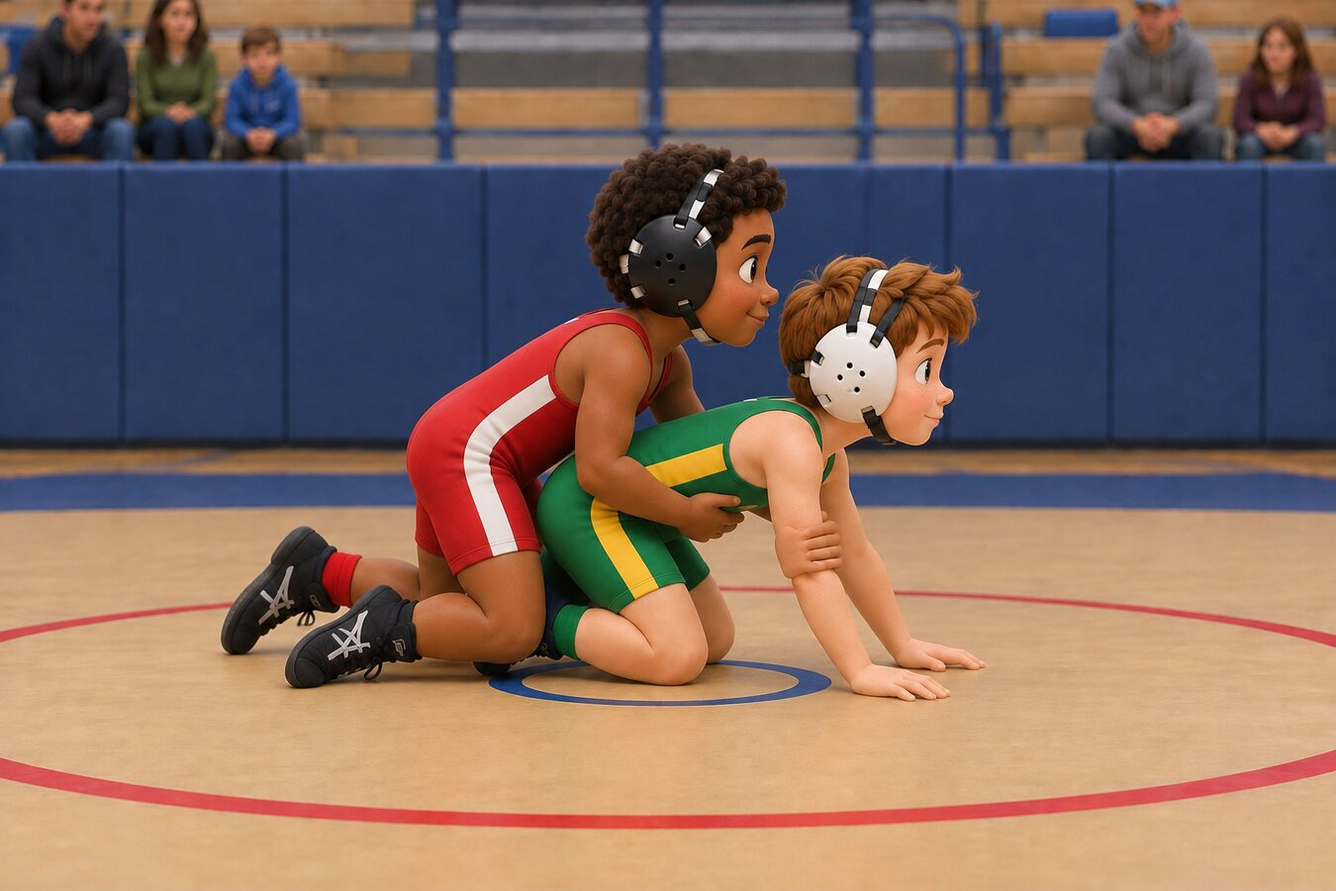
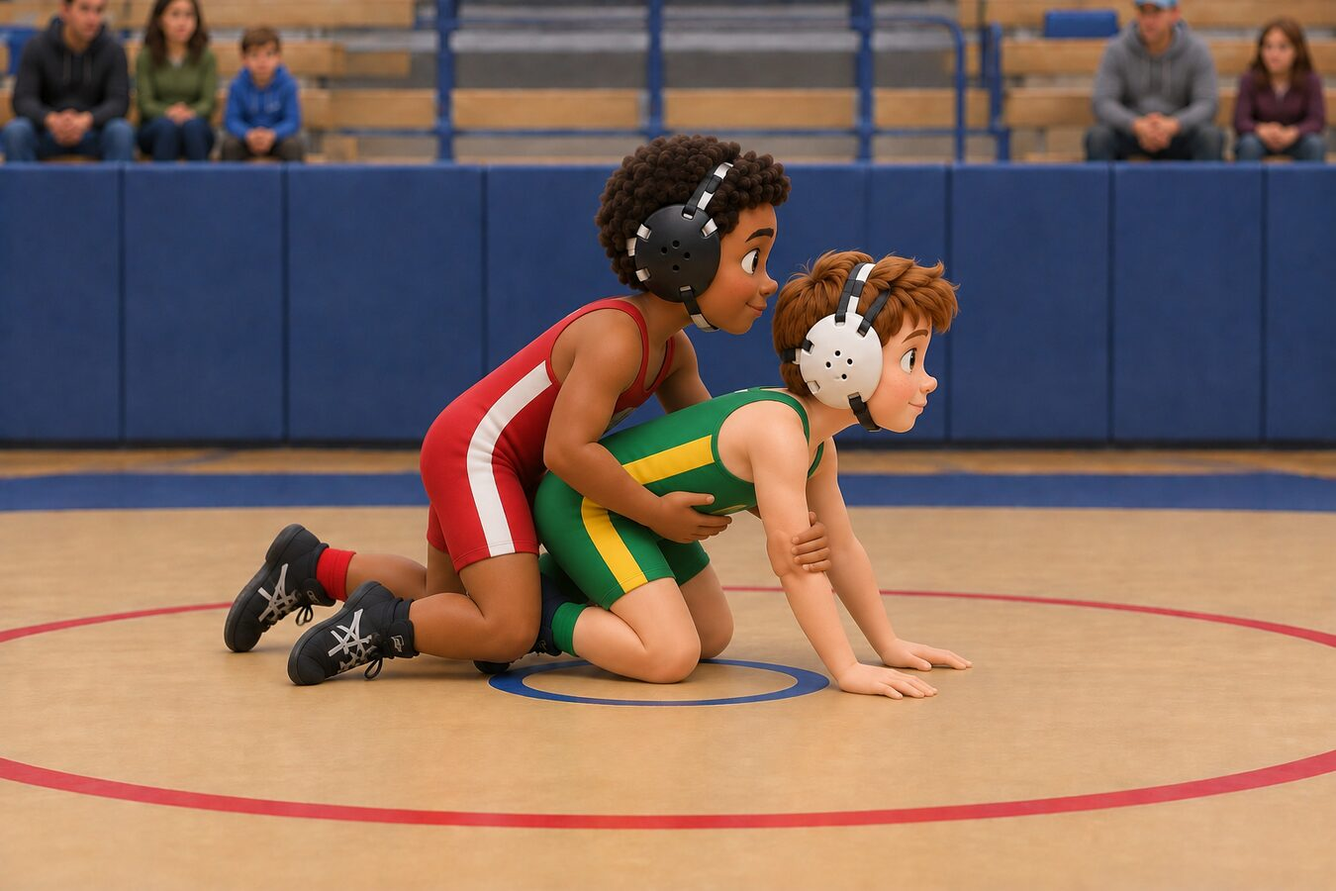
Lesson flows round 1: five reviewed pictures, real takedown cover, near fall exposure, 4-step reversal
TAKEDOWN_CONTROL, REF_POSITION_RED_TOP (hands fixed), NEAR_FALL_EXPOSURE,
SIT_OUT_TIGHT and TURN_IN generated and reviewed at full size. The referee's
position is no longer reused for control or takedown. CONTROL_RED and SIT_OUT
art removed. Make the Call grows to 9 questions. ui-smoke extended to 267 checks.

Changed region(s): [[0.1556, 0.1556, 0.7467, 0.8089]]

diff --git a/wrestling/ui/lessons.js b/wrestling/ui/lessons.js
@@ -21,14 +21,14 @@ export const LESSONS=Object.freeze([
   {
     id:"top",group:"foundation",n:2,title:"Top",kid:"The wrestler on top is in control.",
     frames:[
-      {pose:"REF_POSITION_RED_TOP",state:"red-control",controller:"red",caption:"Red is on TOP. Red holds Green's belly and elbow. Red is in control.",thumb:"Red on top",coach:"The top wrestler has the advantage position. The top wrestler's job is to control, turn, and work toward a fall.",signal:"Wrestler in control (signal 11)"}
+      {pose:"REF_POSITION_RED_TOP",state:"red-control",controller:"red",caption:"Red is on TOP. One hand is on Green's belly. The other hand holds Green's elbow. Red is in control.",thumb:"Red on top",coach:"This is the referee's position: top wrestler at the side, one knee down, palm on the navel, far hand cupping the back of the elbow. The top wrestler has the advantage and works to control, turn, and pin.",signal:"Wrestler in control (signal 11)"}
     ],
     source:"S3",status:"verified",rule:"Advantage position vocabulary. No point value."
   },
   {
     id:"bottom",group:"foundation",n:3,title:"Bottom",kid:"The wrestler on bottom is being controlled.",
     frames:[
-      {pose:"REF_POSITION_RED_TOP",state:"red-control",controller:"red",caption:"Green is on the BOTTOM, on hands and knees. Green wants to get free or get on top.",thumb:"Green on bottom",coach:"The bottom wrestler is in the defensive position. Getting back to neutral is an escape; getting on top is a reversal.",signal:"Wrestler in control (signal 11)"}
+      {pose:"REF_POSITION_RED_TOP",state:"red-control",controller:"red",caption:"Green is on the BOTTOM, on hands and knees. Green wants to get free or get on top.",thumb:"Green on bottom",coach:"The bottom wrestler is in the defensive position: hands flat in front of the knees, head up. Getting back to neutral is an escape; getting on top is a reversal.",signal:"Wrestler in control (signal 11)"}
     ],
     source:"S3",status:"verified",rule:"Defensive position vocabulary. No point value."
   },
@@ -37,14 +37,14 @@ export const LESSONS=Object.freeze([
     frames:[
       {pose:"SHOT",state:"neutral",controller:null,caption:"Red grabs Green's legs. Not control yet! Green is still standing.",thumb:"Red grabs legs",coach:"An attempt is not control. The referee waits until one wrestler is clearly in the advantage position.",signal:"Indicates no control (signal 9)"},
       {pose:"FINISH",state:"neutral",controller:null,caption:"Green is falling but still fighting. Still no control. The ref is watching.",thumb:"Green falling",coach:"Control is developing but not established. No points yet.",signal:"Indicates no control (signal 9)"},
-      {pose:"CONTROL_RED",state:"red-control",controller:"red",caption:"Now Red is on top and Green is down. Red has CONTROL!",thumb:"Red in control",coach:"Control is established: Red is behind and on top, Green is down on the mat. This is the moment the referee awards points.",signal:"Wrestler in control (signal 11)"}
+      {pose:"TAKEDOWN_CONTROL",state:"red-control",controller:"red",caption:"Now Green is down on the mat. Red is on top, behind Green, holding Green's waist. Red has CONTROL!",thumb:"Red in control",coach:"Control is established: Red is behind and on top with the arms locked around the waist, Green is down on the mat. This is the moment the referee awards points.",signal:"Wrestler in control (signal 11)"}
     ],
     source:"S1, S3",status:"verified",rule:"Control is the gate for every scoring call. Points are never given for an attempt."
   },
   {
     id:"pin",group:"foundation",n:5,title:"Pin (fall)",kid:"Both shoulders down = match over.",
     frames:[
-      {pose:"REF_POSITION_RED_TOP",state:"red-control",controller:"red",caption:"Red is on top. Green is on hands and knees. Green's back is safe, so no pin.",coach:"The pin is the goal of every top position. From here the top wrestler works to turn the bottom wrestler over.",signal:"Wrestler in control (signal 11)",thumb:"Back is safe"},
+      {pose:"NEAR_FALL_EXPOSURE",state:"red-control",controller:"red",caption:"Red turned Green over. Green's back is near the mat, but one shoulder is still up in the air. That is NOT a pin yet.",coach:"Back exposure is a near-fall situation, not a fall. A fall needs both shoulders held on the mat for the required count.",signal:"Near fall (signal 21)",thumb:"One shoulder up"},
       {pose:"PIN",state:"red-control",controller:"red",caption:"Now both of Green's shoulders are on the mat. The ref slaps the mat. PIN! The match is over.",coach:"A fall ends the match immediately regardless of score. The exact count length is listed as pending in the rules record until the rules book text is on file.",signal:"Stopping the match (signal 2)",badge:"FALL",badgeTone:"score",ends:true,thumb:"Pin!"}
     ],
     source:"S3, pending",status:"partly-verified",rule:"A fall ends the match. The count duration is still unresolved in our record."
@@ -52,11 +52,11 @@ export const LESSONS=Object.freeze([
   {
     id:"takedown",group:"scoring",n:6,title:"Takedown",kid:"Take them down and stay on top.",
     frames:[
-      {pose:"NEUTRAL",state:"neutral",controller:null,caption:"Step 1. Both kids stand up. Nobody has points.",thumb:"Standing up",coach:"Start in neutral.",signal:"Neutral position (signal 8)"},
-      {pose:"TIE_UP",state:"neutral",controller:null,caption:"Step 2. Red grabs Green's head and arm. Still no points.",thumb:"Red grabs",coach:"Set-ups move the opponent's hands and feet. No score.",signal:"Indicates no control (signal 9)"},
-      {pose:"SHOT",state:"neutral",controller:null,caption:"Step 3. Red gets low and shoots for the legs. That is a try, not a score. No points yet!",thumb:"Red shoots",coach:"Many kids think the shot is the takedown. It is not. The shot is the attempt.",signal:"Indicates no control (signal 9)"},
-      {pose:"FINISH",state:"neutral",controller:null,caption:"Step 4. Red pushes and Green falls. Almost... but not yet!",thumb:"Green falls",coach:"The referee waits for control to be established.",signal:"Indicates no control (signal 9)"},
-      {pose:"CONTROL_RED",state:"red-control",controller:"red",caption:"Step 5. Red is on top. Green is down. TAKEDOWN! Red gets points.",thumb:"Takedown!",coach:"Takedown: neutral to control. The points are awarded at this moment.",signal:"Awarding points (signal 22)",score:{call:"takedown",wrestler:"red"}}
+      {pose:"NEUTRAL",state:"neutral",controller:null,caption:"Step 1. Both kids stand up with their knees bent and hands up. Nobody has points.",thumb:"Standing up",coach:"Start in neutral: good stance, knees bent, hands up, elbows in.",signal:"Neutral position (signal 8)"},
+      {pose:"TIE_UP",state:"neutral",controller:null,caption:"Step 2. Red grabs Green's head and arm. Still no points.",thumb:"Red grabs",coach:"Set-ups move the opponent's hands and feet so there is an opening for the shot. No score.",signal:"Indicates no control (signal 9)"},
+      {pose:"SHOT",state:"neutral",controller:null,caption:"Step 3. Red bends his knees, gets low, and shoots in on Green's legs. That is a try, not a score. No points yet!",thumb:"Red shoots",coach:"Level change then penetration step: lead knee drives between the opponent's feet, head to the hip, both arms wrap behind the knees. Many kids think the shot is the takedown. It is the attempt.",signal:"Indicates no control (signal 9)"},
+      {pose:"FINISH",state:"neutral",controller:null,caption:"Step 4. Red drives and lifts. Green is falling. Almost... but not yet!",thumb:"Green falls",coach:"The drive and finish. The referee waits for control to be established.",signal:"Indicates no control (signal 9)"},
+      {pose:"TAKEDOWN_CONTROL",state:"red-control",controller:"red",caption:"Step 5. Green is down. Red is on top and behind Green, holding Green's waist. TAKEDOWN! Red gets points.",thumb:"Takedown!",coach:"The cover: chest on the back, hips behind the hips, arms locked around the waist. Takedown is neutral to control, and the points are awarded at this moment.",signal:"Awarding points (signal 22)",score:{call:"takedown",wrestler:"red"}}
     ],
     source:"S1, S2, engine",status:"verified",rule:"Takedown is scored when a wrestler goes from neutral to established control."
   },
@@ -64,8 +64,8 @@ export const LESSONS=Object.freeze([
     id:"escape",group:"scoring",n:7,title:"Escape",kid:"Get free and turn around.",
     frames:[
       {pose:"REF_POSITION_RED_TOP",state:"red-control",controller:"red",caption:"Step 1. Red is on top. Green is on the bottom.",thumb:"Red on top",coach:"Start in the referee's position.",signal:"Wrestler in control (signal 11)"},
-      {pose:"STAND_UP",state:"red-control",controller:"red",caption:"Step 2. Green stands up, but Red still holds Green's belly. Not free yet. No points.",thumb:"Green stands",coach:"Standing up is not an escape while the top wrestler still has control.",signal:"Wrestler in control (signal 11)"},
-      {pose:"ESCAPE_NEUTRAL",state:"neutral",controller:null,caption:"Step 3. Green breaks free and turns around to face Red. ESCAPE! Green gets a point.",thumb:"Escape!",coach:"Escape: from being controlled back to neutral. Awarded when control is lost and the wrestlers are neutral.",signal:"Awarding points (signal 22)",score:{call:"escape",wrestler:"green"}}
+      {pose:"STAND_UP",state:"red-control",controller:"red",caption:"Step 2. Green stands up, but Red still holds Green's belly. Not free yet. No points.",thumb:"Green stands",coach:"Standing up is not an escape while the top wrestler still has control of the waist.",signal:"Wrestler in control (signal 11)"},
+      {pose:"ESCAPE_NEUTRAL",state:"neutral",controller:null,caption:"Step 3. Green peels Red's hands off, breaks free and turns around to face Red. ESCAPE! Green gets a point.",thumb:"Escape!",coach:"Hand control first (two hands on one wrist, hips forward), then turn to face. Escape is awarded when control is lost and the wrestlers are neutral.",signal:"Awarding points (signal 22)",score:{call:"escape",wrestler:"green"}}
     ],
     source:"S1, S2, engine",status:"verified",rule:"Escape is scored when the controlled wrestler gets back to neutral."
   },
@@ -73,8 +73,9 @@ export const LESSONS=Object.freeze([
     id:"reversal",group:"scoring",n:8,title:"Reversal",kid:"Bottom to top in one move.",
     frames:[
       {pose:"REF_POSITION_RED_TOP",state:"red-control",controller:"red",caption:"Step 1. Red is on top. Green is on the bottom.",thumb:"Red on top",coach:"Start in the referee's position.",signal:"Wrestler in control (signal 11)"},
-      {pose:"SIT_OUT",state:"red-control",controller:"red",caption:"Step 2. Green sits out and turns to face Red. Red lost his grip. Nobody is in control right now.",thumb:"Green turns",coach:"Red has lost his grip but Green is not behind Red yet, so nobody is in control. No points yet.",signal:"Indicates no control (signal 9)"},
-      {pose:"CONTROL_GREEN",state:"green-control",controller:"green",caption:"Step 3. Now Green is on top of Red! REVERSAL! Green gets points.",thumb:"Reversal!",coach:"Reversal: from being controlled straight to control, without a neutral position in between.",signal:"Awarding points (signal 22)",score:{call:"reversal",wrestler:"green"}}
+      {pose:"SIT_OUT_TIGHT",state:"red-control",controller:"red",caption:"Step 2. Green sits out with his legs in front. Red still holds Green's waist. Red is still in control. No points.",thumb:"Green sits out",coach:"The sit-out moves the hips out from under the top wrestler, but while Red keeps the waist, control has not changed.",signal:"Wrestler in control (signal 11)"},
+      {pose:"TURN_IN",state:"red-control",controller:null,happening:"<b>Changing!</b> Red is tipping over. Green is not on top yet.",caption:"Step 3. Green turns in and wraps Red's waist. Red is tipping over. Green is not on top yet, so no points yet.",thumb:"Green turns in",coach:"The turn-in: Green faces Red and drives to get behind Red's hips. Control is changing but not established, so the referee waits.",signal:"Indicates no control (signal 9)"},
+      {pose:"CONTROL_GREEN",state:"green-control",controller:"green",caption:"Step 4. Now Green is on top of Red! REVERSAL! Green gets points.",thumb:"Reversal!",coach:"Reversal: from being controlled straight to control, without a neutral position in between.",signal:"Awarding points (signal 22)",score:{call:"reversal",wrestler:"green"}}
     ],
     source:"S1, S2, engine",status:"verified",rule:"Reversal is scored when the bottom wrestler gains control without going through neutral."
   },
@@ -82,7 +83,8 @@ export const LESSONS=Object.freeze([
     id:"nearfall",group:"scoring",n:9,title:"Near fall",kid:"Back near the mat? The ref counts.",
     frames:[
       {pose:"REF_POSITION_RED_TOP",state:"red-control",controller:"red",caption:"Step 1. Red is on top and in control.",thumb:"Red on top",coach:"Near fall needs control first.",signal:"Wrestler in control (signal 11)"},
-      {pose:"REF_POSITION_RED_TOP",state:"red-control",controller:"red",caption:"Step 2. Red turned Green's back toward the mat and the ref counted 1... 2... Green gets back to the belly. Red gets near fall points.",thumb:"Points!",coach:"Points are awarded when the near-fall situation ends. Only one near fall per pinning situation.",signal:"Awarding points (signal 22)",nearFall:{seconds:2,wrestler:"red"}}
+      {pose:"NEAR_FALL_EXPOSURE",state:"red-control",controller:"red",caption:"Step 2. Red puts an arm under Green's arm and a hand on the back of Green's head. That is a half nelson. Red turns Green. Green's back is near the mat and the ref counts 1... 2... No points yet!",thumb:"Ref counts",coach:"Half nelson to back exposure: back within 45 degrees of the mat, one shoulder down and the other up. The referee counts out loud. Nothing is scored while the count is running.",signal:"Near fall (signal 21)",badge:"REF COUNTS",badgeTone:"warn"},
+      {pose:"TAKEDOWN_CONTROL",state:"red-control",controller:"red",caption:"Step 3. Green fights back to his belly. The count stops. Now Red gets near fall points!",thumb:"Points!",coach:"Points are awarded when the near-fall situation ends. Only one near fall per pinning situation.",signal:"Awarding points (signal 22)",nearFall:{seconds:2,wrestler:"red"}}
     ],
     source:"S1, engine",status:"verified",rule:"Near fall: control, pinning situation, criteria met, 2 or more seconds. Scored once when the situation ends."
   },
@@ -90,7 +92,7 @@ export const LESSONS=Object.freeze([
     id:"fall",group:"scoring",n:10,title:"Fall beats points",kid:"A pin wins, no matter the score.",
     preset:{red:0,green:6},
     frames:[
-      {pose:"CONTROL_RED",state:"red-control",controller:"red",caption:"Look at the scoreboard: Green is winning 6 to 0. But Red just got on top.",coach:"The scoreboard shows a preset 0-6 so children can see that a fall overrides points.",signal:"Wrestler in control (signal 11)",thumb:"Green leads 6-0"},
+      {pose:"TAKEDOWN_CONTROL",state:"red-control",controller:"red",caption:"Look at the scoreboard: Green is winning 6 to 0. But Red just got on top.",coach:"The scoreboard shows a preset 0-6 so children can see that a fall overrides points.",signal:"Wrestler in control (signal 11)",thumb:"Green leads 6-0"},
       {pose:"PIN",state:"red-control",controller:"red",caption:"Red pins Green. Both shoulders down! Red wins right now, even though Green had more points.",coach:"The fall ends the match immediately. Score does not matter.",signal:"Stopping the match (signal 2)",badge:"FALL",badgeTone:"score",ends:true,thumb:"Red wins by pin"}
     ],
     source:"S3, pending",status:"partly-verified",rule:"A fall ends the match immediately, whatever the score. Count duration unresolved."
@@ -98,7 +100,7 @@ export const LESSONS=Object.freeze([
   {
     id:"techfall",group:"match",n:11,title:"Technical fall",kid:"Way ahead? The match stops.",
     frames:[
-      {pose:"CONTROL_RED",state:"red-control",controller:"red",caption:"If one wrestler gets way ahead, the match stops. That is a technical fall.",thumb:"Way ahead",coach:"If a near fall creates the margin, the match continues until the near-fall criteria are no longer met, then ends immediately.",signal:"Default, technical fall, disqualification (signal 27)",badge:"TECH FALL",badgeTone:"score"}
+      {pose:"TAKEDOWN_CONTROL",state:"red-control",controller:"red",caption:"If one wrestler gets way ahead, the match stops. That is a technical fall.",thumb:"Way ahead",coach:"If a near fall creates the margin, the match continues until the near-fall criteria are no longer met, then ends immediately.",signal:"Default, technical fall, disqualification (signal 27)",badge:"TECH FALL",badgeTone:"score"}
     ],
     source:"S1 (5-11-2c)",status:"verified",rule:"15-point margin. Near-fall exception verified in NFHS 2025-26 changes."
   }
@@ -106,11 +108,13 @@ export const LESSONS=Object.freeze([
 
 export const MAKE_THE_CALL=Object.freeze([
   {id:"q-shot",from:"SHOT",to:"FINISH",fromState:"neutral",toState:"neutral",prompt:"Red shoots and pushes. Green is still up. What is the call?",answer:"none",why:"Still neutral. An attempt is not control."},
-  {id:"q-td",from:"FINISH",to:"CONTROL_RED",fromState:"neutral",toState:"red-control",prompt:"Red is on top now and Green is down. What is the call?",answer:"takedown",why:"Neutral to control. Takedown for Red."},
+  {id:"q-td",from:"FINISH",to:"TAKEDOWN_CONTROL",fromState:"neutral",toState:"red-control",prompt:"Green is down. Red is on top, behind Green, holding the waist. What is the call?",answer:"takedown",why:"Neutral to control. Takedown for Red."},
   {id:"q-standup",from:"REF_POSITION_RED_TOP",to:"STAND_UP",fromState:"red-control",toState:"red-control",prompt:"Green stands up, but Red still holds Green's belly. What is the call?",answer:"none",why:"Red still has control. Not an escape yet."},
   {id:"q-escape",from:"STAND_UP",to:"ESCAPE_NEUTRAL",fromState:"red-control",toState:"neutral",prompt:"Green breaks free and turns to face Red. What is the call?",answer:"escape",why:"Controlled to neutral. Escape for Green."},
-  {id:"q-reversal",from:"SIT_OUT",to:"CONTROL_GREEN",fromState:"red-control",toState:"green-control",prompt:"Green spins out and is on top of Red. What is the call?",answer:"reversal",why:"Controlled straight to control. Reversal for Green."},
-  {id:"q-pin",from:"REF_POSITION_RED_TOP",to:"PIN",fromState:"red-control",toState:"red-control",prompt:"Both of Green's shoulders are down and the ref slaps the mat. What is the call?",answer:"fall",why:"Fall. The match is over."},
+  {id:"q-sitout",from:"REF_POSITION_RED_TOP",to:"SIT_OUT_TIGHT",fromState:"red-control",toState:"red-control",prompt:"Green sits out, but Red still holds Green's waist. What is the call?",answer:"none",why:"Red still has control. No points until control changes."},
+  {id:"q-reversal",from:"TURN_IN",to:"CONTROL_GREEN",fromState:"red-control",toState:"green-control",prompt:"Green turns in and gets on top of Red. What is the call?",answer:"reversal",why:"Controlled straight to control. Reversal for Green."},
+  {id:"q-nearfall",from:"REF_POSITION_RED_TOP",to:"NEAR_FALL_EXPOSURE",fromState:"red-control",toState:"red-control",prompt:"Red turns Green with a half nelson. Green's back is near the mat and the ref starts counting. What is the call?",answer:"nearfall-wait",why:"Keep counting. Near fall points are given when the count ends, not while it runs."},
+  {id:"q-pin",from:"NEAR_FALL_EXPOSURE",to:"PIN",fromState:"red-control",toState:"red-control",prompt:"Now both of Green's shoulders are down and the ref slaps the mat. What is the call?",answer:"fall",why:"Fall. The match is over."},
   {id:"q-neutral",from:"NEUTRAL",to:"TIE_UP",fromState:"neutral",toState:"neutral",prompt:"They grab each other and push. Points?",answer:"none",why:"Neutral. Touching is not control."}
 ]);
 

diff --git a/wrestling/ui/art.js b/wrestling/ui/art.js
@@ -1,7 +1,9 @@
 // Illustrated scene art, keyed by pose name. Each entry is a full-stage image
-// (gym, mat and both wrestlers) generated from the rig pose description and
-// checked against the pose sheet for a plausible wrestling position before it
-// is listed here. Poses without an entry fall back to the rig renderer.
+// (gym, mat and both wrestlers) generated from the written position in
+// docs/lesson-flows.md and reviewed at the 1536x1024 original (every hand,
+// joint, headgear and singlet, caption nouns visible) before it is listed here
+// (playbook gates G3-G5). Poses without an entry fall back to the rig renderer,
+// which must never be reached from a live lesson.
 // Anchors are in the 900x500 stage space (image is 1350x900 shown with
 // "slice", so stage y = image y * 2/3 - 50) and place the name tags and the
 // "IN CONTROL" marker over the right wrestler in the picture.
@@ -11,11 +13,19 @@ export const ART=Object.freeze({
   TIE_UP:{src:src("TIE_UP"),red:[330,36],green:[540,36]},
   SHOT:{src:src("SHOT"),red:[420,150],green:[480,36]},
   FINISH:{src:src("FINISH"),red:[330,150],green:[700,40]},
-  CONTROL_RED:{src:src("CONTROL_RED"),red:[440,80],green:[660,150]},
+  // Cover after the double leg: Red behind and on top, arms locked around the waist.
+  TAKEDOWN_CONTROL:{src:src("TAKEDOWN_CONTROL"),red:[510,45],green:[700,110]},
+  // Mirror-role placeholder for Green in control until REVERSAL_CONTROL / TOP_RIDE_GREEN pass review.
   CONTROL_GREEN:{src:src("CONTROL_GREEN"),red:[200,90],green:[430,55]},
-  REF_POSITION_RED_TOP:{src:src("REF_POSITION_RED_TOP"),red:[470,50],green:[660,125]},
+  // Referee's position: palm on the navel, far hand cupping the elbow.
+  REF_POSITION_RED_TOP:{src:src("REF_POSITION_RED_TOP"),red:[380,50],green:[690,80]},
   STAND_UP:{src:src("STAND_UP"),red:[330,36],green:[600,36]},
   ESCAPE_NEUTRAL:{src:src("ESCAPE_NEUTRAL"),red:[250,36],green:[720,36]},
-  SIT_OUT:{src:src("SIT_OUT"),red:[300,36],green:[610,50]},
+  // Sit-out with Red still holding the waist.
+  SIT_OUT_TIGHT:{src:src("SIT_OUT_TIGHT"),red:[300,45],green:[600,50]},
+  // Turn-in: Green driving into Red, Red off balance, nobody on top yet.
+  TURN_IN:{src:src("TURN_IN"),red:[200,45],green:[560,120]},
+  // Half nelson exposure: Green's back toward the mat, one shoulder up, referee counting.
+  NEAR_FALL_EXPOSURE:{src:src("NEAR_FALL_EXPOSURE"),red:[560,55],green:[790,200]},
   PIN:{src:src("PIN"),red:[560,70],green:[720,235]}
 });

diff --git a/wrestling/app.js b/wrestling/app.js
@@ -9,7 +9,7 @@ const $$=s=>[...document.querySelectorAll(s)];
 const S=RULESET.scoring;
 const STATE_META={
   neutral:{cls:"neutral",label:"NEUTRAL",hint:"Nobody has control",pose:"NEUTRAL",controller:null},
-  "red-control":{cls:"red",label:"RED CONTROL",hint:"Red is on top",pose:"CONTROL_RED",controller:"red"},
+  "red-control":{cls:"red",label:"RED CONTROL",hint:"Red is on top",pose:"TAKEDOWN_CONTROL",controller:"red"},
   "green-control":{cls:"green",label:"GREEN CONTROL",hint:"Green is on top",pose:"CONTROL_GREEN",controller:"green"}
 };
 const CALL_LABEL={takedown:"Takedown",escape:"Escape",reversal:"Reversal","near fall":"Near fall",fall:"Fall"};
@@ -160,7 +160,7 @@ function renderLearn(){
     render();
   });
   nav.appendChild(prev);nav.appendChild(next);frames.appendChild(nav);
-  renderHappening(f,(f.controller?STATE_KID[f.state]:STATE_KID.neutral)+(scored?" <b>+"+scored+" for "+(f.score?f.score.wrestler:f.nearFall.wrestler).toUpperCase()+"!</b>":f.ends?" <b>Match over!</b>":""));
+  renderHappening(f,(f.happening||(f.controller?STATE_KID[f.state]:STATE_KID.neutral))+(scored?" <b>+"+scored+" for "+(f.score?f.score.wrestler:f.nearFall.wrestler).toUpperCase()+"!</b>":f.ends?" <b>Match over!</b>":""));
   $("#actions").innerHTML="";
   if(lastFrame){progress.lessons[l.id]=true;saveProgress();}
   if(scored)feedback((f.score?f.score.wrestler:f.nearFall.wrestler).toUpperCase()+" scores "+scored,f.coach,"score");
@@ -279,7 +279,7 @@ let nfPending=false;
 function renderMatch(){
   head("Score a Match","Rule-driven scorer","Every point comes from the rules engine. No free buttons.");
   const m=STATE_META[match.state];
-  const poseName=nfPending&&m.controller==="red"?"REF_POSITION_RED_TOP":m.pose;
+  const poseName=nfPending&&m.controller==="red"?"NEAR_FALL_EXPOSURE":m.pose;
   const mirrored=false;
   stage({pose:poseName,controller:m.controller,badge:match.ended?(match.ended.reason==="fall"?"FALL":"TECHNICAL FALL"):nfPending?"NEAR FALL COUNT":undefined,badgeTone:match.ended?"score":nfPending?"warn":undefined},"Match position: "+m.label.toLowerCase());
   setStateChip(match.state);setSignal(match.ended?"Stopping the match (signal 2)":nfPending?"Near fall (signal 21)":m.controller?"Wrestler in control (signal 11)":"Neutral position (signal 8)");

diff --git a/wrestling/ui/scene.js b/wrestling/ui/scene.js
@@ -70,9 +70,9 @@ function shadow(pose){
 export function renderStage(svg,frame){
   while(svg.firstChild)svg.removeChild(svg.firstChild);
   const pose=POSES[frame.pose];
-  if(!pose)throw new Error("Unknown pose "+frame.pose);
-  svg.appendChild(defs());
   const art=ART[frame.pose];
+  if(!pose&&!art)throw new Error("Unknown pose "+frame.pose);
+  svg.appendChild(defs());
   if(art){
     svg.appendChild(el("image",{href:art.src,x:0,y:0,width:900,height:500,preserveAspectRatio:"xMidYMid slice"}));
     tag(svg,art.red,WRESTLERS.red);tag(svg,art.green,WRESTLERS.green);

diff --git a/BUILD-LOG.md b/BUILD-LOG.md
@@ -60,3 +60,16 @@ Found: the referee's-position illustration reused as "control" in 8 places (not 
 Done today: added `AGENTS.md` and `docs/SME-PLAYBOOK.md` (13 roles, 10 hard gates, image recipe). Removed the last rig-drawn frames from the live app: Near fall lesson is two illustrated steps until a reviewed near-fall picture exists, and the near-fall Make the Call question is parked with it. iOS: `user-select:none` and `touch-action:manipulation` on controls. `ui-smoke.mjs` now requires an illustration on every frame (G2).
 
 Pending (tomorrow, free credits): takedown finish, active top control (red and mirrored green) and near fall pictures, reviewed under G3-G5, replacing the referee's-position reuse in Control step 3, Takedown step 5, Escape/Reversal/Near fall step 1 and Score a Match.
+
+## 2026-10-23 Lesson flows round 1: five new reviewed pictures
+
+Following docs/SME-PLAYBOOK.md (rules, pictures, copy, layout, tests) and docs/lesson-flows.md.
+
+- Generated 7 Scenario jobs before the free plan limit; 5 passed the G3 full-size review (TAKEDOWN_CONTROL, REF_POSITION_RED_TOP fix, NEAR_FALL_EXPOSURE, SIT_OUT_TIGHT, TURN_IN), 1 rejected (HALF_NELSON: arm over the shoulder, not under the arm), 5 still to generate (TOP_RIDE, TOP_RIDE_GREEN, LEVEL_CHANGE, CLEAR_HANDS, REVERSAL_CONTROL). Review notes per picture in docs/lesson-flows.md.
+- The referee's-position picture is no longer reused for control or takedown anywhere. CONTROL_RED and SIT_OUT art deleted.
+- Lesson changes: Control and Takedown finish on the real cover. Pin starts from back exposure (one shoulder up, not a pin). Reversal is now 4 steps (referee's position, sit-out with Red still holding the waist, turn-in with nobody on top, Green in control). Near fall is 3 steps (control, half nelson exposure with the referee counting and nothing scored yet, back to belly and points). Fall and technical fall use the cover picture.
+- Make the Call: 9 questions. Added sit-out with grip kept (no points) and half nelson to exposure (keep counting). Pin question now starts from the exposure.
+- Score a Match: red control shows the cover, the near-fall count shows the exposure.
+- scene.js: a pose that has reviewed art no longer needs a rig definition.
+- Tests: npm test green; ui-smoke extended (9 questions, nothing scored during the count, exposure picture on the count frames, reversal scores only at step 4, retired art files must 404).
+- Known interim: CONTROL_GREEN (mirrored old referee's position) still stands for Green in control until REVERSAL_CONTROL / TOP_RIDE_GREEN pass review.

diff --git a/docs/lesson-flows.md b/docs/lesson-flows.md
@@ -55,3 +55,24 @@ Each image: generate at 1536x1024, open the original, count fingers on every han
 
 ## Make the Call after the new pictures
 Add back the near-fall count question (HALF_NELSON -> NEAR_FALL_EXPOSURE, answer "Keep counting") and add "Red is in the level change, Green still standing: no points", and "Green clears the hands but has not turned: no points".
+
+## Status (day 1 generation, 2026-10-23)
+Scenario's free plan stopped after 7 jobs (not 12), so the day-1 queue landed in two parts.
+
+Reviewed at the 1536x1024 original and listed in `art.js` (fingers counted on every hand, joints, headgear, singlet colors, caption nouns visible):
+- TAKEDOWN_CONTROL: pass. Red behind and on top, chest on back, hands clasped under Green's waist, Green down on hands and knees.
+- REF_POSITION_RED_TOP (fix): pass. Palm on the navel, far hand cupping the back of the elbow, Green's hands flat in front of the knees. Replaces the deformed-hand original and its CONTROL_RED copy.
+- NEAR_FALL_EXPOSURE: pass. Half nelson (arm under the near arm, hand on the back of the head), Green bridging with the back toward the mat, one shoulder up, Red chest to chest.
+- SIT_OUT_TIGHT: pass. Green seated with legs out, Red kneeling behind with the arm still around the waist, Green's hand on Red's hand.
+- TURN_IN: pass. Green on his knees facing Red, arm around Red's lower back, Red off balance leaning back.
+
+Rejected:
+- HALF_NELSON (first render): Red's arm goes over Green's shoulder to the head instead of under the near arm. Not a half nelson. Redo.
+
+Not generated yet (plan limit): TOP_RIDE, TOP_RIDE_GREEN, LEVEL_CHANGE, CLEAR_HANDS, REVERSAL_CONTROL, HALF_NELSON redo.
+
+Interim mapping until those exist:
+- CONTROL_GREEN (mirrored referee's position, flagged hands) remains the only Green-in-control picture: reversal step 4, Make the Call reversal answer, Score a Match green control. It is replaced by REVERSAL_CONTROL / TOP_RIDE_GREEN as soon as they pass review.
+- TAKEDOWN_CONTROL stands in for TOP_RIDE (Red on top in control: near fall step 3, fall lesson step 1, technical fall, Score a Match red control). Same concept, so gate G4 holds.
+- Takedown lesson keeps 5 frames (level change is described in step 3's caption and coach note until LEVEL_CHANGE exists). Escape keeps 3 frames (hand control is described in step 3 until CLEAR_HANDS exists).
+- SIT_OUT and CONTROL_RED art files are deleted; the smoke test fails if they come back.

diff --git a/wrestling/README.md b/wrestling/README.md
@@ -48,4 +48,4 @@ Serve the repository root with any static HTTP server and open `/wrestling/`.
 
 ## Art
 
-`art/poses/*.jpg` are full-stage illustrations of the two wrestlers (red and green) generated with Scenario (GPT Image 2.5 Flare) from written position descriptions, then checked against the rig pose sheet for a plausible wrestling position before being listed in `ui/art.js`. Any pose without an entry there (currently `NEAR_FALL`) renders through the rig. Regenerate a pose by editing the prompt in BUILD-LOG, reviewing the result, and adding its anchors to `ui/art.js`.
+`art/poses/*.jpg` are full-stage illustrations of the two wrestlers (red and green) generated with Scenario (GPT Image 2.5 Flare) from written position descriptions, then checked against the rig pose sheet for a plausible wrestling position before being listed in `ui/art.js`. Every pose used by a live lesson must have an entry there; the rig renderer is a development fallback only (playbook gate G2). Position descriptions and review status live in `docs/lesson-flows.md`. Regenerate a pose by editing the prompt in BUILD-LOG, reviewing the result, and adding its anchors to `ui/art.js`.
